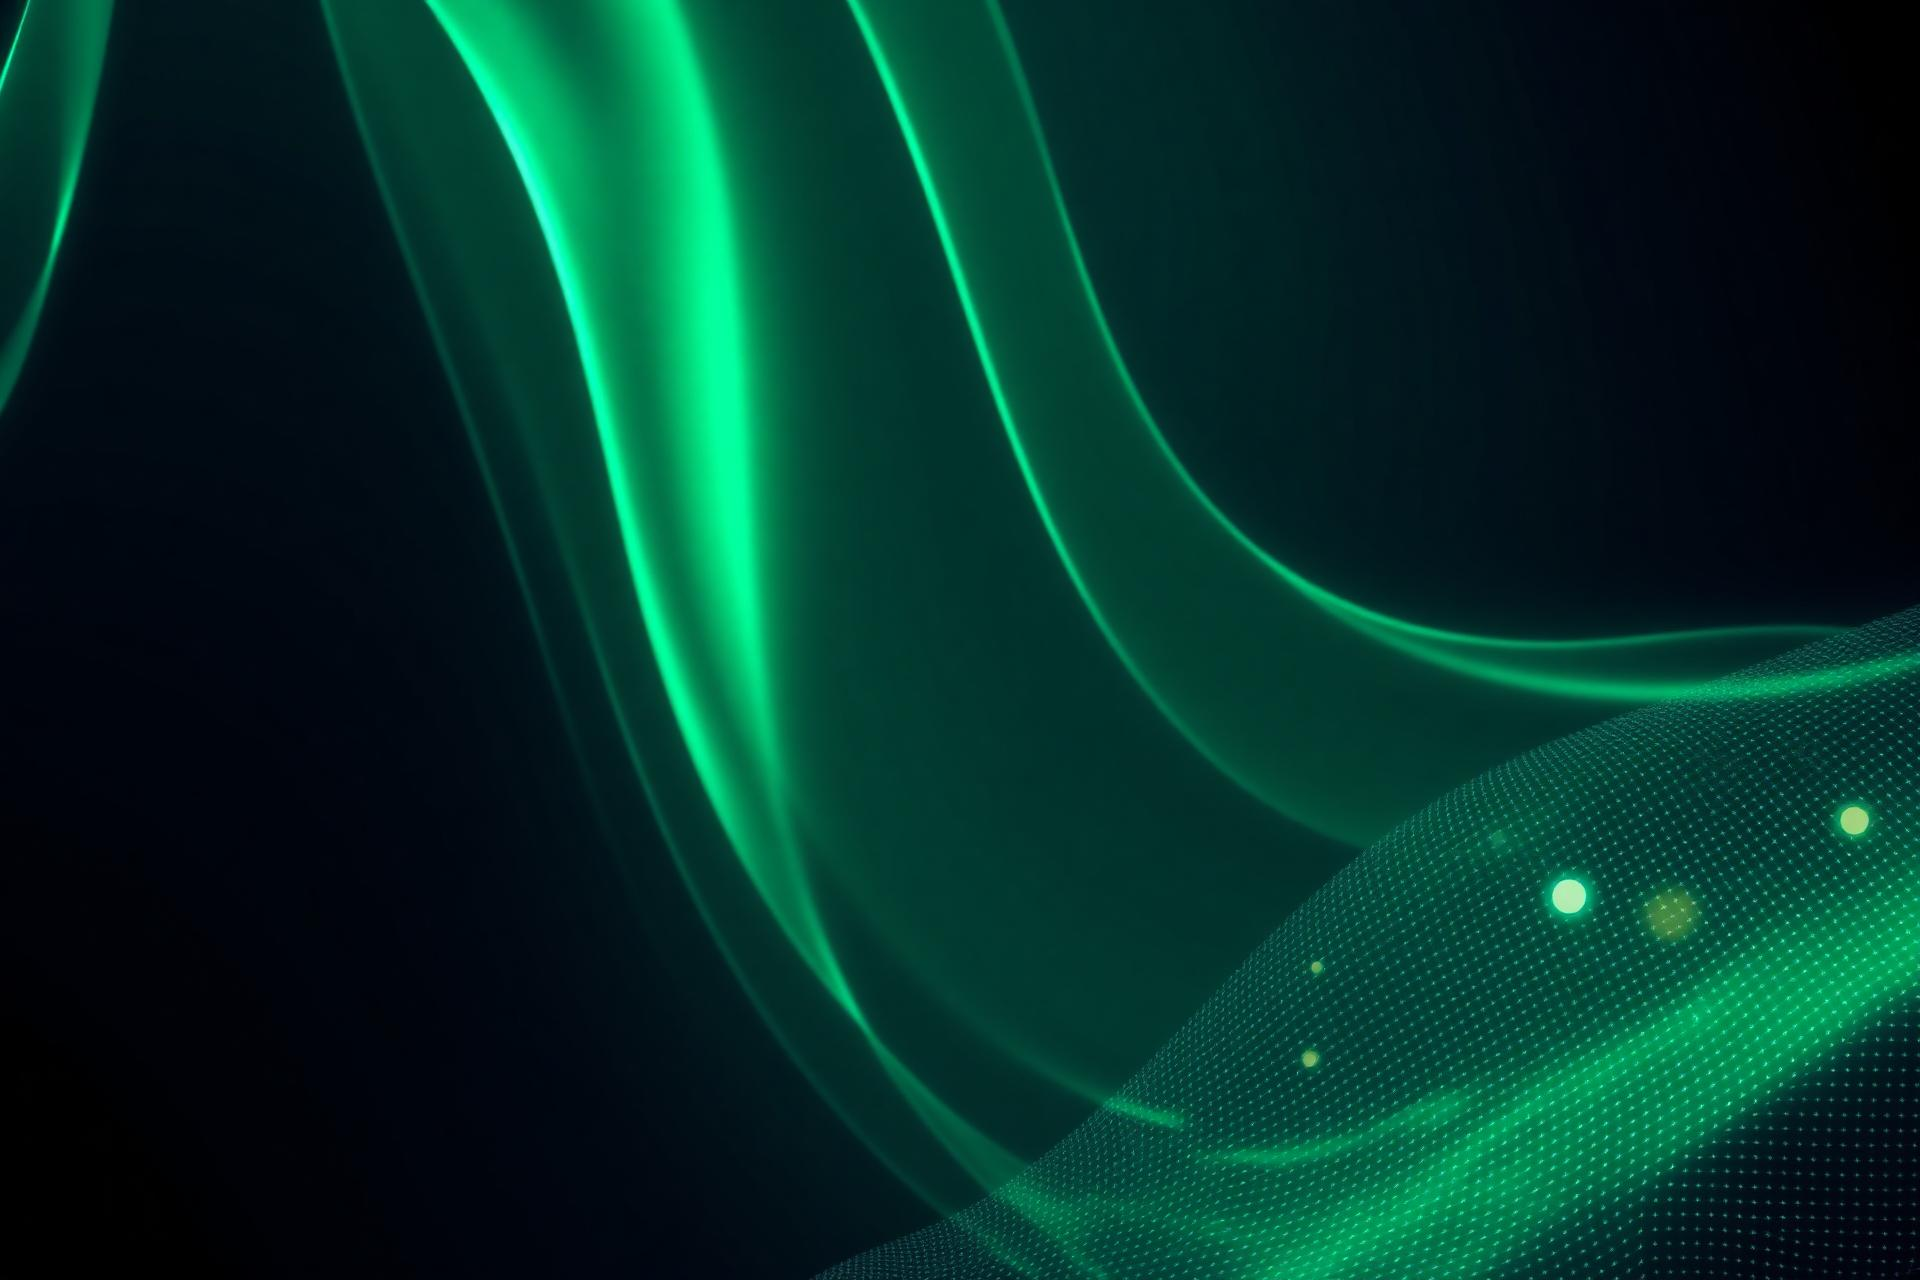
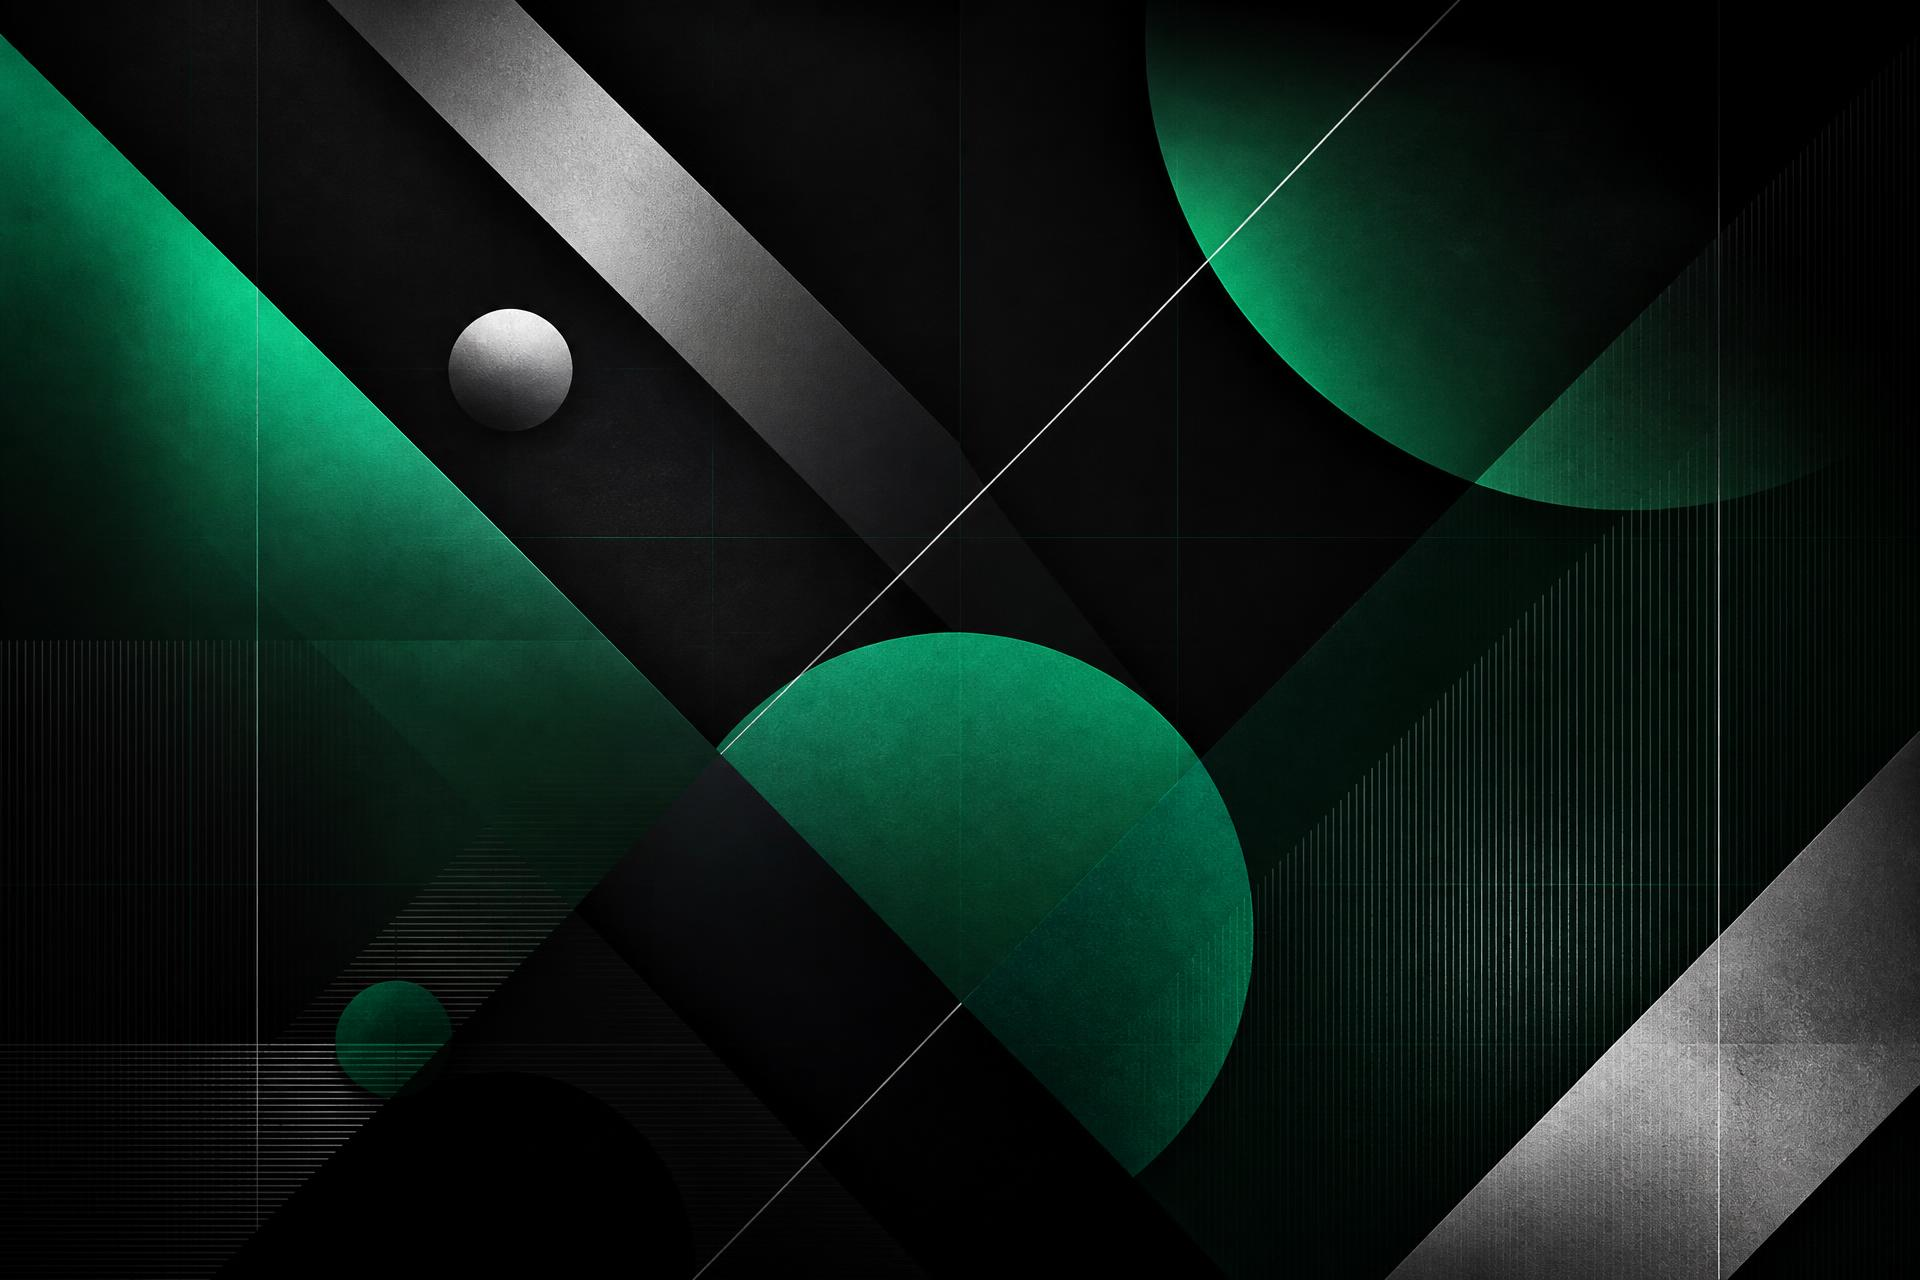
Changes

diff --git a/.lovable/plan.md b/.lovable/plan.md
@@ -1,0 +1,40 @@
+## Changes
+
+### Header / Logo sizing
+- `src/components/site/Logo.tsx`: bump `md` from `h-12` to `h-[4.5rem]` (~1.5×). Update `lg`/`xl` proportionally.
+- `src/components/site/SiteHeader.tsx`:
+  - Make the "Book a Project" button match the nav pill height (`h-11`, rounded-full, same vertical padding as nav pill = `py-1.5` container + link `py-1.5`).
+  - Keep logo at current size prop but it will inherit the new larger baseline.
+- `src/components/site/SiteFooter.tsx`: footer logo also grows proportionally via Logo scale.
+
+### Hero (`src/routes/index.tsx`)
+- Increase headline sizes one step: `text-4xl sm:text-5xl md:text-6xl lg:text-7xl` → `text-5xl sm:text-6xl md:text-7xl lg:text-8xl`.
+- Replace hero background: generate a new premium graphic-designer style image (abstract editorial composition, green/charcoal, geometric shapes + subtle grid, no photo) saved to `src/assets/hero-bg.jpg` via imagegen.
+
+### "What we do" section
+- Remove the subtitle "One focus, done exceptionally well."
+
+### "Recent work" section
+- Remove eyebrow "Recent work".
+- Rename heading "Selected projects" → "Recent Projects".
+
+### New About section on Home (after hero)
+Inspired by uploaded reference (image 2): dark charcoal card with rounded avatar tile, name + role, "Available for projects" dot indicator, intro paragraph, and 3 stat cards (3+ Years Building, 20+ Projects Shipped, 100% Client Satisfaction).
+- Upload user photo (`user-uploads://WhatsApp_Image_2025-07-03_at_15.47.59.jpeg`) via `lovable-assets` → `src/assets/lihle-portrait.jpg.asset.json`.
+- Use portrait in the avatar tile (replaces the tea/coffee icon in the inspo).
+- Keep palette on-brand: charcoal surface, primary green accents for stat icons and dot.
+
+### Remove About page
+- Delete `src/routes/about.tsx` (route auto-regenerates).
+- Remove `/about` link from `SiteHeader.tsx` nav array and `SiteFooter.tsx` Explore list.
+- Remove `/about` entry from `src/routes/sitemap[.]xml.ts` if present.
+
+### Reduce top padding on inner pages
+- `src/routes/services.tsx`, `src/routes/portfolio.tsx`, `src/routes/contact.tsx`, `src/routes/book.tsx`: reduce the first section's top padding (e.g. `pt-32` → `pt-24`, or hero-style header padding trimmed) so content sits close under the fixed navbar. `SiteLayout` already adds `pt-20` for non-overlay pages — trim page-level top padding to `pt-4`/`pt-6`.
+
+### SEO
+- Update root `__root.tsx` nav-related structured data if it references About.
+- Update sitemap to drop `/about`.
+
+## Not changing
+- Colors, fonts, routing framework, other page content untouched.
